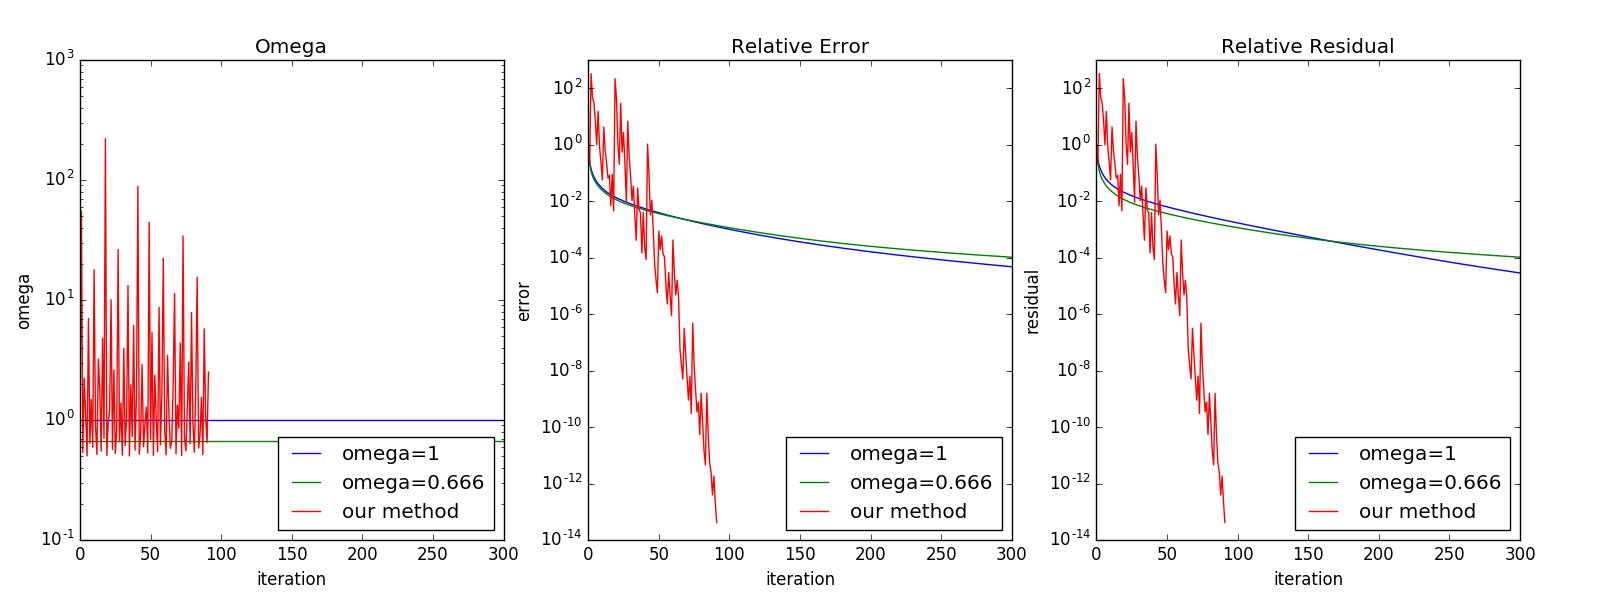
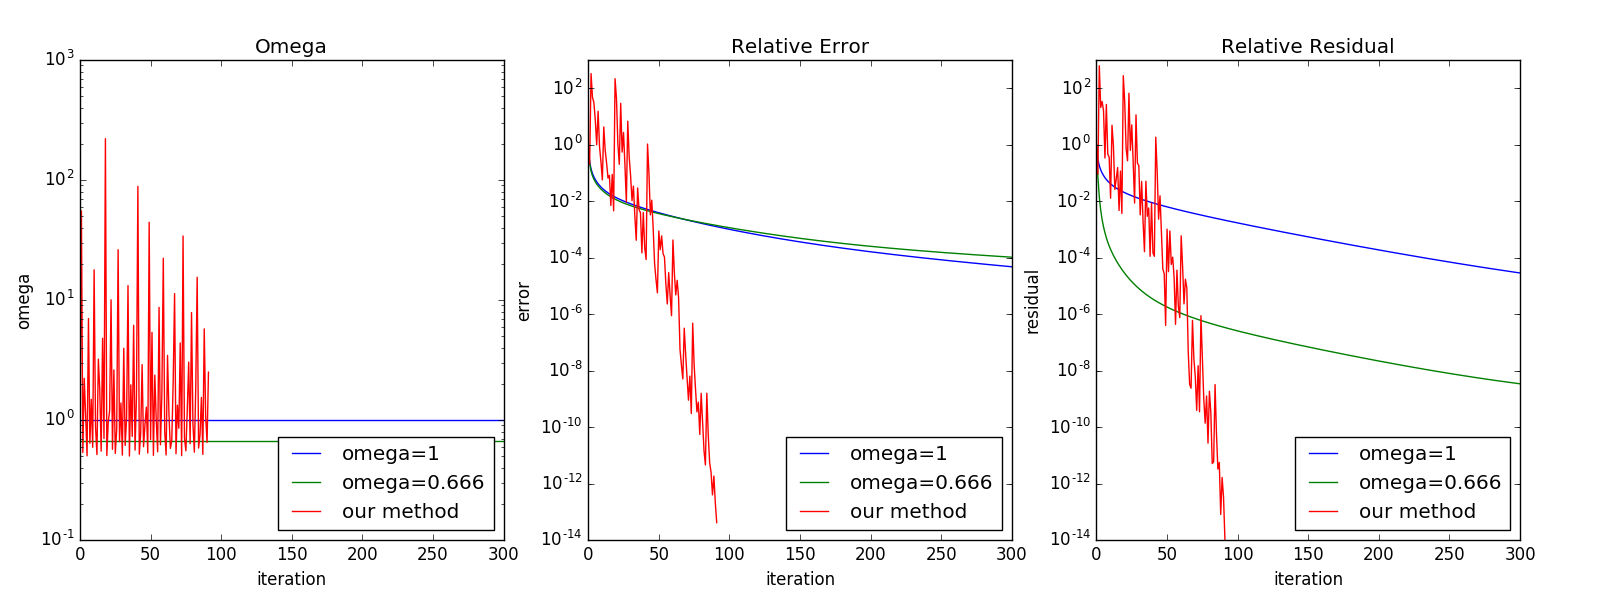
add img

diff --git a/fieldsimple/wj/draw_3omega.py b/fieldsimple/wj/draw_3omega.py
@@ -1,0 +1,99 @@
+import matplotlib.pyplot as plt
+from matplotlib import *
+from numpy import *
+
+fig = plt.figure(figsize=(12,6))
+# axOmega = fig.add_subplot(1, 3, 1)
+axOmega = fig.add_subplot(1, 2, 1)
+plt.title('Omega')
+plt.ylabel('omega')
+plt.xlabel('iteration')
+
+# axErr = fig.add_subplot(1, 3, 2)
+# plt.title('Relative Error')
+# plt.ylabel('error')
+# plt.xlabel('iteration')
+
+# axR = fig.add_subplot(1, 3, 3)
+axR = fig.add_subplot(1, 2, 2)
+plt.title('Relative Residual')
+plt.ylabel('residual')
+plt.xlabel('iteration')
+
+plt.subplots_adjust(left=0.05, right=0.95)
+
+res = 64*64
+mat1 = numpy.fromfile('./wjacobi_data_0010_1.dat', dtype = numpy.float64)
+mat1 = mat1.reshape((-1, res*3+1))
+
+mat2 = numpy.fromfile('./wjacobi_data_0010_2div3.dat', dtype = numpy.float64)
+mat2 = mat2.reshape((-1, res*3+1))
+
+mat3 = numpy.fromfile('./wjacobi_data_largest.dat', dtype = numpy.float64)
+mat3 = mat3.reshape((-1, res*3+1))
+
+error_line1=[]
+residual_line1=[]
+omega_line1=[]
+for index,line in enumerate(mat1):
+	error    = line[0    :res]#error
+	residual = line[res  :res*2]#residual
+	ck       = line[res*2:res*3]#ck
+	omega    = line[res*3]#omega
+
+	error_line1.append(numpy.sum(numpy.square(error)))
+	residual_line1.append(numpy.sum(numpy.square(residual)))
+	omega_line1.append(omega)
+# error_line1/=error_line1[0]
+residual_line1/=residual_line1[0]
+
+error_line2=[]
+residual_line2=[]
+omega_line2=[]
+for index,line in enumerate(mat2):
+	error    = line[0    :res]#error
+	residual = line[res  :res*2]#residual
+	ck       = line[res*2:res*3]#ck
+	omega    = line[res*3]#omega
+
+	error_line2.append(numpy.sum(numpy.square(error)))
+	residual_line2.append(numpy.sum(numpy.square(residual)))
+	omega_line2.append(omega)
+# error_line2/=error_line2[0]
+residual_line2/=residual_line2[0]
+
+error_line3=[]
+residual_line3=[]
+omega_line3=[]
+for index,line in enumerate(mat3):
+	error    = line[0    :res]#error
+	residual = line[res  :res*2]#residual
+	ck       = line[res*2:res*3]#ck
+	omega    = line[res*3]#omega
+
+	error_line3.append(numpy.sum(numpy.square(error)))
+	residual_line3.append(numpy.sum(numpy.square(residual)))
+	omega_line3.append(omega)
+# error_line3/=error_line3[0]
+residual_line3/=residual_line3[0]
+
+
+# axErr.semilogy(range(0,len(error_line1)), error_line1,label='omega=1')
+# axErr.semilogy(range(0,len(error_line2)), error_line2,label='omega=0.666')
+# axErr.semilogy(range(0,len(error_line3)), error_line3,label='our method')
+
+axR.semilogy(range(0,len(residual_line1)), residual_line1,label='omega=1')
+axR.semilogy(range(0,len(residual_line2)), residual_line2,label='omega=0.666')
+axR.semilogy(range(0,len(residual_line3)), residual_line3,label='our method')
+
+axOmega.semilogy(range(0,len(omega_line1)), omega_line1,label='omega=1')
+axOmega.semilogy(range(0,len(omega_line2)), omega_line2,label='omega=0.666')
+axOmega.semilogy(range(0,len(omega_line3)), omega_line3,label='our method')
+
+# axErr.legend(loc=4)
+axR.legend(loc=1)
+axOmega.legend(loc=1)
+plt.savefig('2dcompareomega.png',dpi=100)
+# plt.show()
+plt.close()
+

diff --git a/traindata2/draw_3omega.py b/traindata2/draw_3omega.py
@@ -1,0 +1,97 @@
+import matplotlib.pyplot as plt
+from matplotlib import *
+from numpy import *
+
+fig = plt.figure(figsize=(16,6))
+axOmega = fig.add_subplot(1, 3, 1)
+plt.title('Omega')
+plt.ylabel('omega')
+plt.xlabel('iteration')
+
+axErr = fig.add_subplot(1, 3, 2)
+plt.title('Relative Error')
+plt.ylabel('error')
+plt.xlabel('iteration')
+
+axR = fig.add_subplot(1, 3, 3)
+plt.title('Relative Residual')
+plt.ylabel('residual')
+plt.xlabel('iteration')
+
+plt.subplots_adjust(left=0.05, right=0.95)
+
+res = 32*32
+mat1 = numpy.fromfile('./wjacobi_data_1.dat', dtype = numpy.float64)
+mat1 = mat1.reshape((-1, res*3+1))
+
+mat2 = numpy.fromfile('./wjacobi_data_2div3.dat', dtype = numpy.float64)
+mat2 = mat2.reshape((-1, res*3+1))
+
+mat3 = numpy.fromfile('./wjacobi_data_largest.dat', dtype = numpy.float64)
+mat3 = mat3.reshape((-1, res*3+1))
+
+error_line1=[]
+residual_line1=[]
+omega_line1=[]
+for index,line in enumerate(mat1):
+	error    = line[0    :res]#error
+	residual = line[res  :res*2]#residual
+	ck       = line[res*2:res*3]#ck
+	omega    = line[res*3]#omega
+
+	error_line1.append(numpy.sum(numpy.square(error)))
+	residual_line1.append(numpy.sum(numpy.square(residual)))
+	omega_line1.append(omega)
+error_line1/=error_line1[0]
+residual_line1/=residual_line1[0]
+
+error_line2=[]
+residual_line2=[]
+omega_line2=[]
+for index,line in enumerate(mat2):
+	error    = line[0    :res]#error
+	residual = line[res  :res*2]#residual
+	ck       = line[res*2:res*3]#ck
+	omega    = line[res*3]#omega
+
+	error_line2.append(numpy.sum(numpy.square(error)))
+	residual_line2.append(numpy.sum(numpy.square(residual)))
+	omega_line2.append(omega)
+error_line2/=error_line2[0]
+residual_line2/=residual_line2[0]
+
+error_line3=[]
+residual_line3=[]
+omega_line3=[]
+for index,line in enumerate(mat3):
+	error    = line[0    :res]#error
+	residual = line[res  :res*2]#residual
+	ck       = line[res*2:res*3]#ck
+	omega    = line[res*3]#omega
+
+	error_line3.append(numpy.sum(numpy.square(error)))
+	residual_line3.append(numpy.sum(numpy.square(residual)))
+	omega_line3.append(omega)
+error_line3/=error_line3[0]
+residual_line3/=residual_line3[0]
+
+
+axErr.semilogy(range(0,len(error_line1)), error_line1,label='omega=1')
+axErr.semilogy(range(0,len(error_line2)), error_line2,label='omega=0.666')
+axErr.semilogy(range(0,len(error_line3)), error_line3,label='our method')
+
+axR.semilogy(range(0,len(residual_line1)), residual_line1,label='omega=1')
+axR.semilogy(range(0,len(residual_line2)), residual_line2,label='omega=0.666')
+axR.semilogy(range(0,len(residual_line3)), residual_line3,label='our method')
+
+axOmega.semilogy(range(0,len(omega_line1)), omega_line1,label='omega=1')
+axOmega.semilogy(range(0,len(omega_line2)), omega_line2,label='omega=0.666')
+axOmega.semilogy(range(0,len(omega_line3)), omega_line3,label='our method')
+
+axErr.legend(loc=4)
+axR.legend(loc=4)
+axOmega.legend(loc=4)
+plt.savefig('2dcompareomega.png',dpi=100)
+# plt.show()
+plt.close()
+
